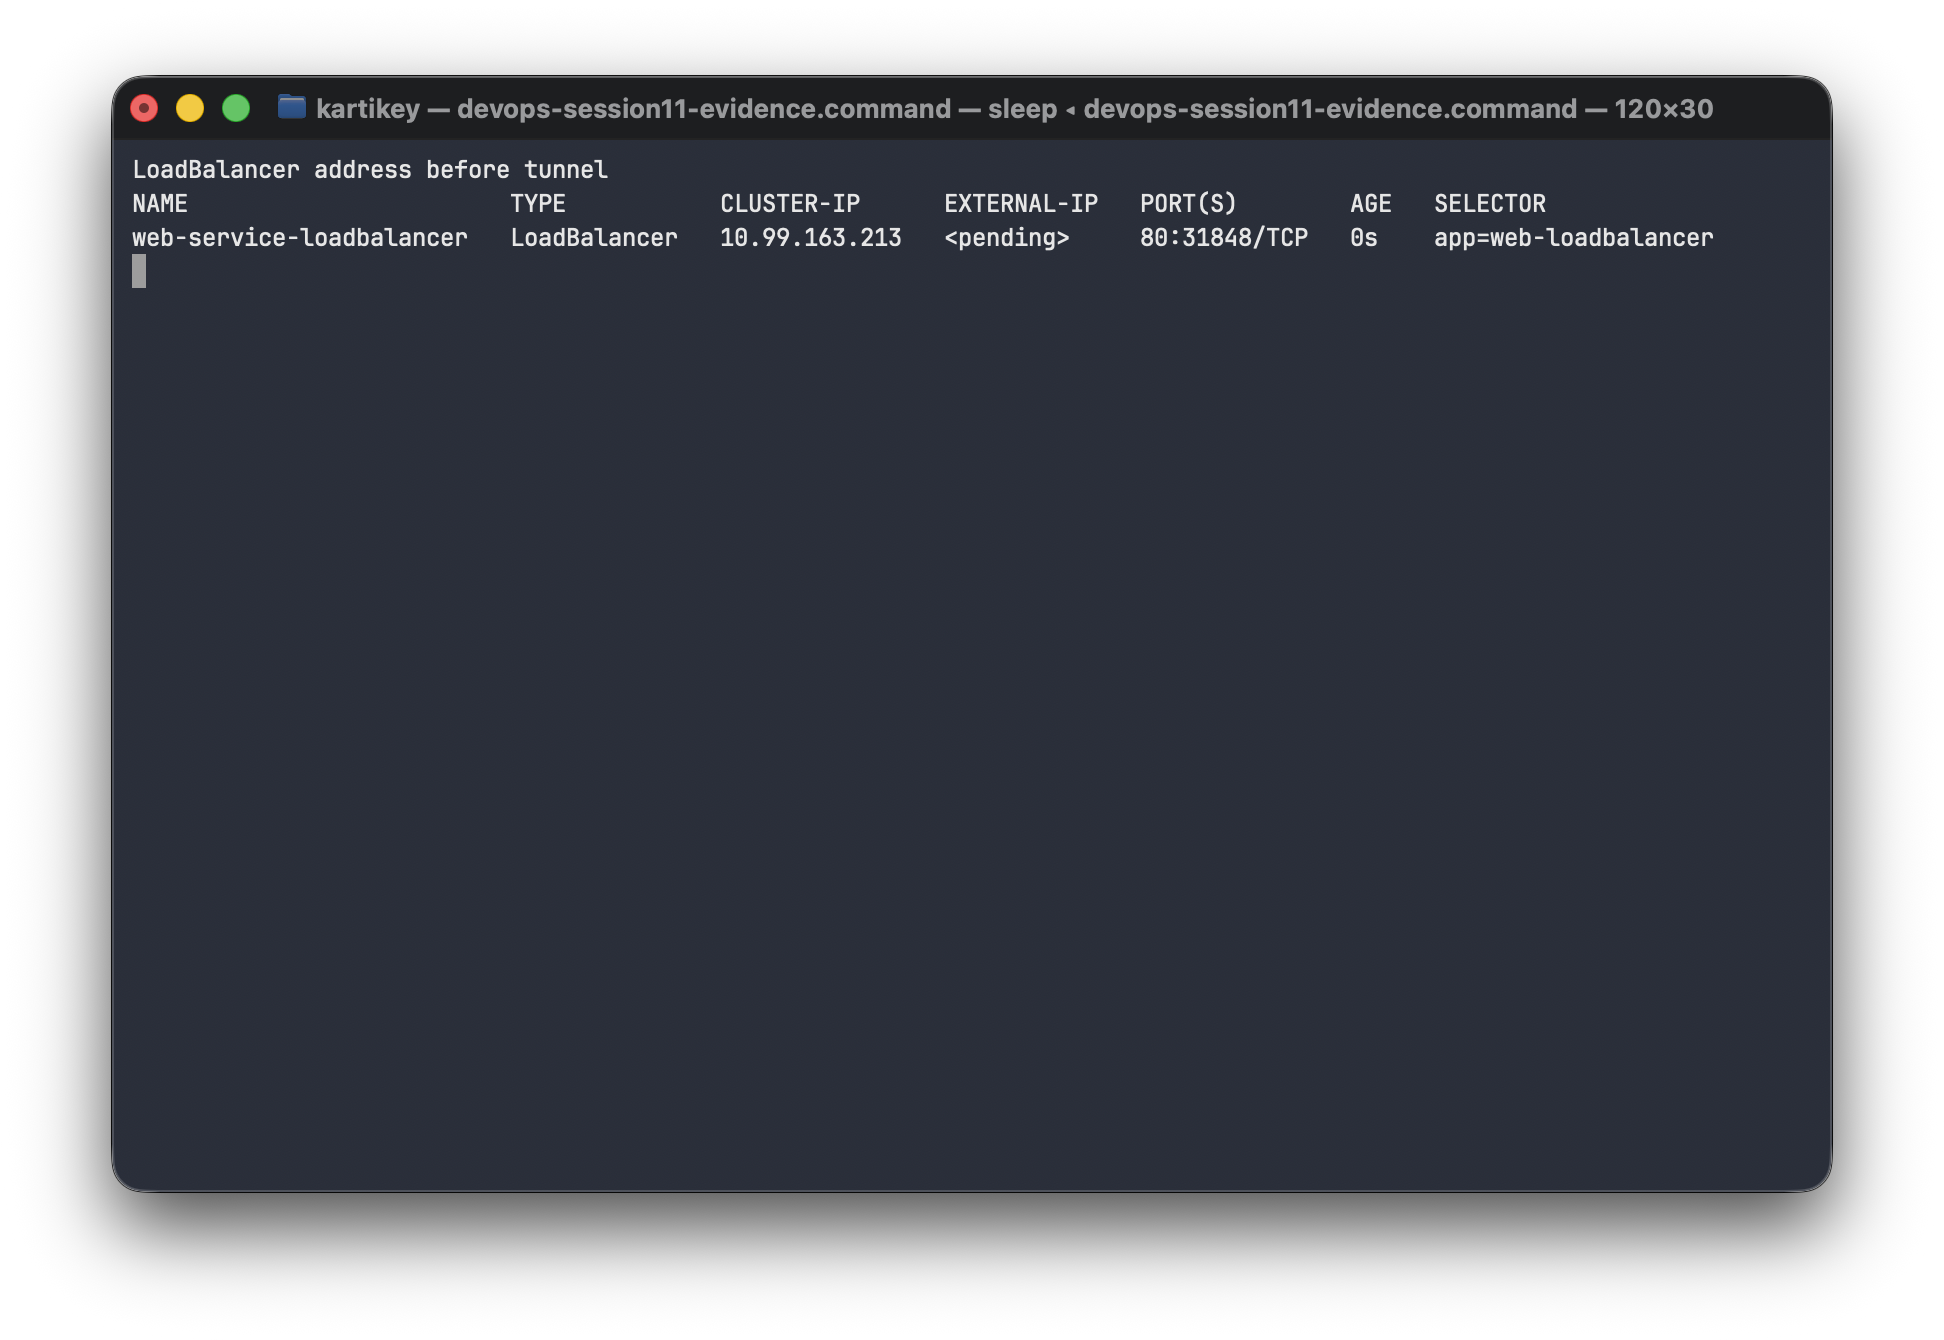
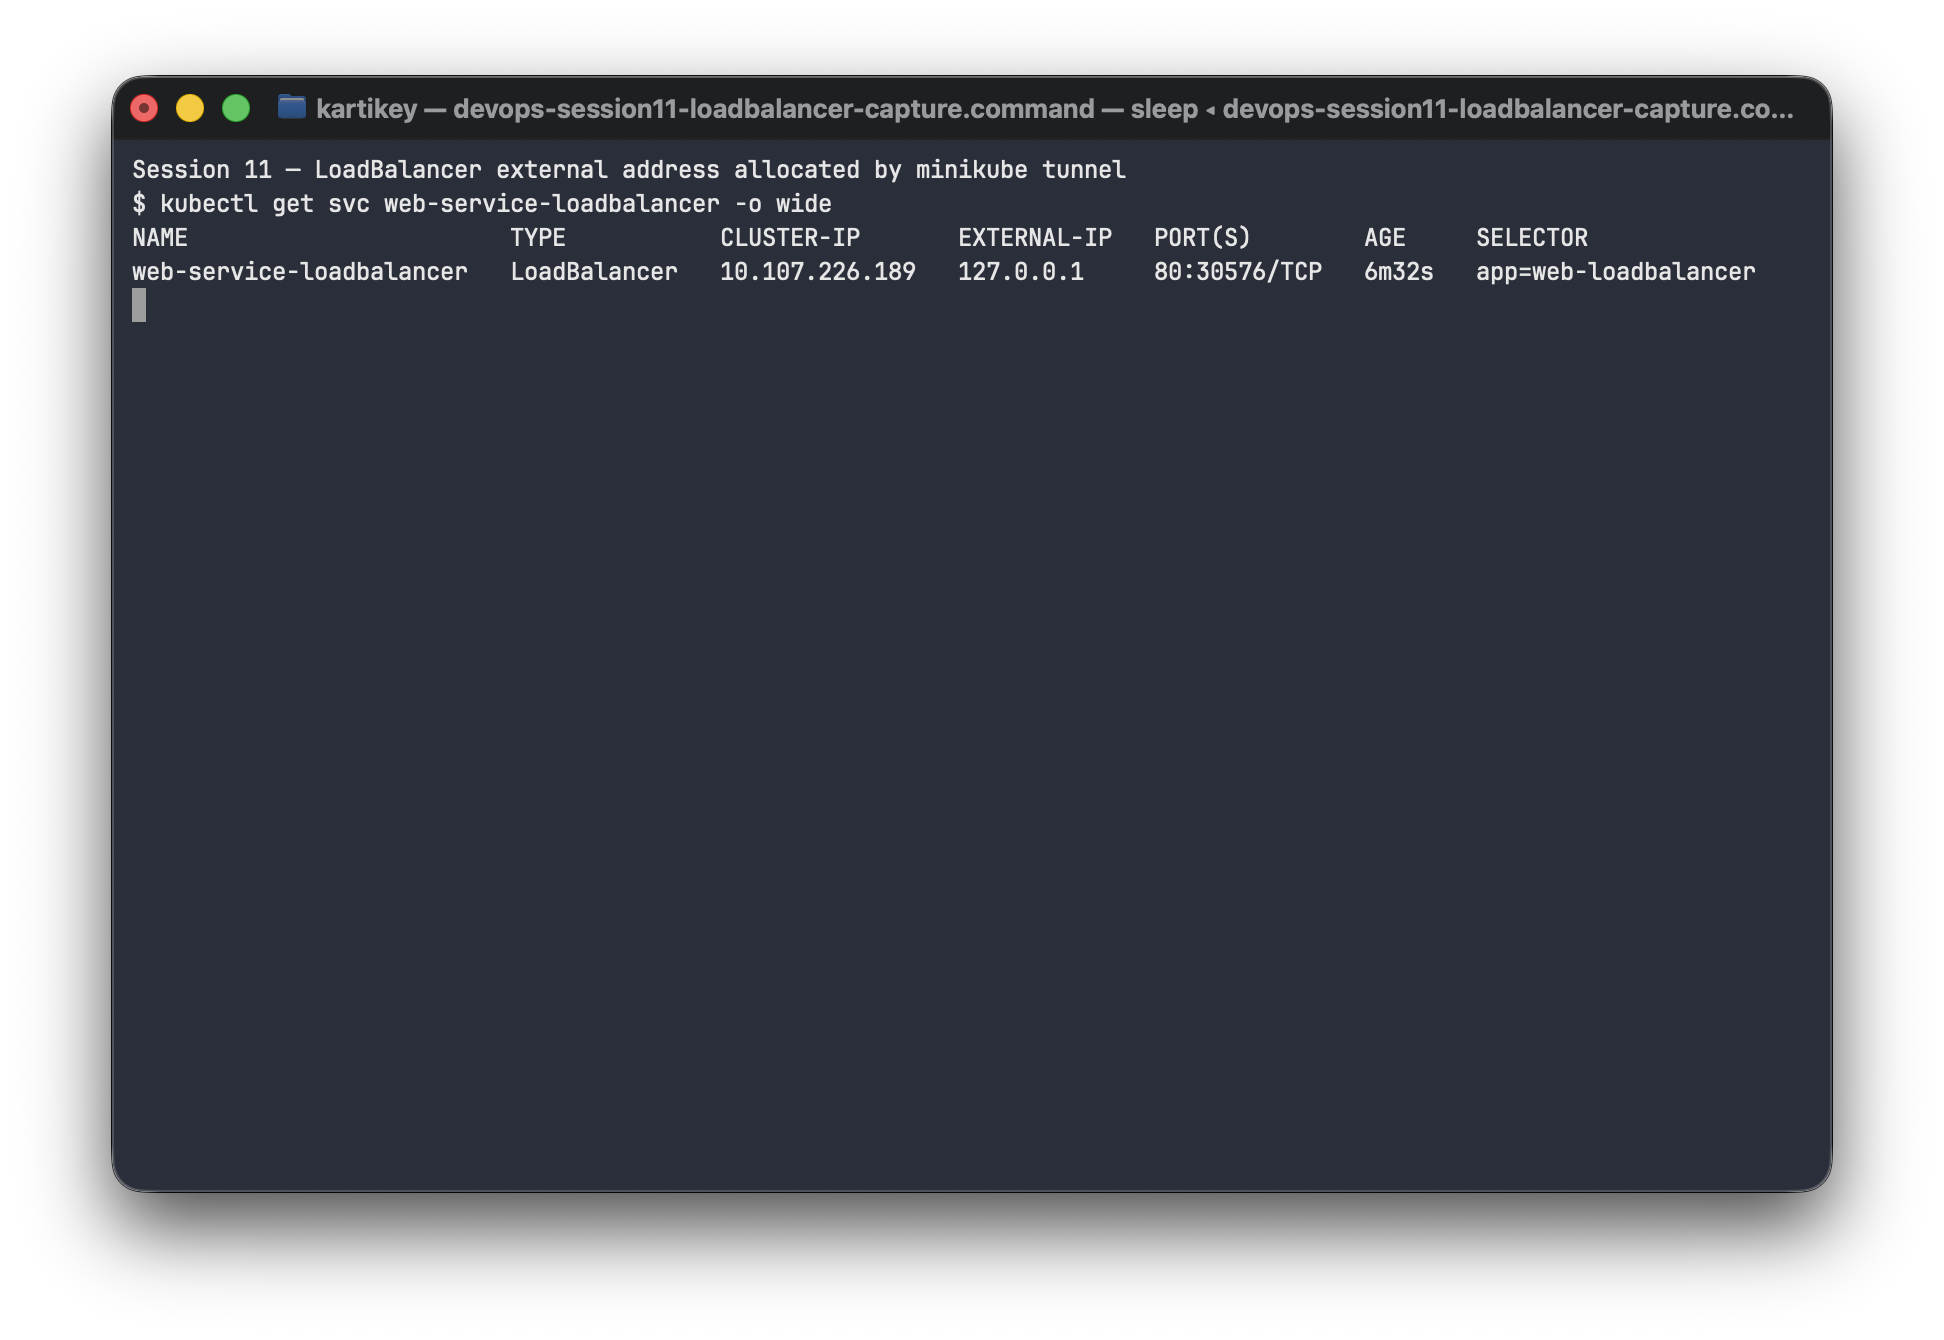
Complete tunnel and host mapping lab evidence

Changed region(s): [[0.0617, 0.1224, 0.8951, 0.2448], [0.1852, 0.0612, 0.9259, 0.0918]]

diff --git a/session-11-kubernetes-services/README.md b/session-11-kubernetes-services/README.md
@@ -109,7 +109,7 @@ flowchart TD
 
 ## Observed lab results
 
-The ClusterIP Service had three ready endpoints and both the short service name and full FQDN returned `<title>Welcome to nginx!</title>`. The client resolver showed `nameserver 10.96.0.10`, search suffixes for `default.svc.cluster.local`, `svc.cluster.local`, and `cluster.local`, and `options ndots:5`. NodePort mapped `80:30080/TCP`; `minikube service web-service-nodeport --url` returned a local `127.0.0.1` URL, and a request through that URL returned `HTTP/1.1 200 OK`. The LoadBalancer Service remained `<pending>` because starting `minikube tunnel` prompted for sudo credentials in this terminal.
+The ClusterIP Service had three ready endpoints and both the short service name and full FQDN returned `<title>Welcome to nginx!</title>`. The client resolver showed `nameserver 10.96.0.10`, search suffixes for `default.svc.cluster.local`, `svc.cluster.local`, and `cluster.local`, and `options ndots:5`. NodePort mapped `80:30080/TCP`; `minikube service web-service-nodeport --url` returned a local `127.0.0.1` URL, and a request through that URL returned `HTTP/1.1 200 OK`. After authenticating interactively and starting `minikube tunnel`, the LoadBalancer Service received `EXTERNAL-IP 127.0.0.1`; a request to `http://127.0.0.1/` returned the Nginx welcome title over port 80.
 
 The ExternalName Service displayed `CLUSTER-IP <none>` and `EXTERNAL-IP api.github.com`; CoreDNS returned the CNAME and an address during the lookup. An HTTPS request through that alias reached the external address but returned HTTP 400 because the request used the service-alias hostname; this proves name resolution and a TCP/TLS connection, not a successful API response. The headless Service returned three Pod A records, and direct access to `web-stateful-0.web-service-headless` returned the Nginx title. Deleting the stateless Deployment Pod resulted in a new generated suffix; deleting `web-stateful-0` recreated the same ordinal. A selectorless Service showed the supplied endpoint `192.0.2.10:3306`; that reserved documentation address proves endpoint association only and is not an active database.
 
@@ -124,4 +124,4 @@ These screenshots show the listed commands and results from this cluster:
 - [09.1-pod-identities.png](./screenshots/09.1-pod-identities.png), [09.2-identity-recreation.png](./screenshots/09.2-identity-recreation.png), [10.1-controller-matrix.png](./screenshots/10.1-controller-matrix.png), [11.1-service-decision-cost.png](./screenshots/11.1-service-decision-cost.png)
 - [12.1-docker-driver-direct-failure.png](./screenshots/12.1-docker-driver-direct-failure.png), [12.2-minikube-service-forward.png](./screenshots/12.2-minikube-service-forward.png)
 
-The LoadBalancer stayed pending without the sudo-backed Minikube tunnel; host DNS was checked with Host headers because `/etc/hosts` was not edited.
+The LoadBalancer screenshot records its tunnel-assigned `127.0.0.1` address and successful HTTP response. The temporary `/etc/hosts` mapping was also created and checked during Session 12; direct `.local` lookup through curl timed out on macOS, while the port-forward Host-header request succeeded.

diff --git a/session-12-ingress-configmaps-secrets/README.md b/session-12-ingress-configmaps-secrets/README.md
@@ -74,7 +74,7 @@ kubectl wait --namespace ingress-nginx --for=condition=Ready pod --selector=app.
 kubectl get pods,services -n ingress-nginx
 ```
 
-The workstation mapping exercise is `MINIKUBE_IP=$(minikube ip); echo "$MINIKUBE_IP yatri.local" | sudo tee -a /etc/hosts`, then verify with `grep yatri.local /etc/hosts`. Remove the entry after the lab because the Minikube address can change. For local routing checks without a persistent hosts-file edit, pass `-H 'Host: yatri.local'` or use curl `--resolve`.
+The temporary workstation mapping was added as `192.168.49.2 yatri.local portal.campus.local api.campus.local` in `/etc/hosts`. `dscacheutil` returned the expected Minikube IP, but `curl http://yatri.local/` timed out during name resolution on this macOS host. A Host-header request through `kubectl port-forward` returned the frontend page. The temporary mapping was removed after the test because the Minikube IP can change.
 
 ## End-to-end demo
 
@@ -116,4 +116,4 @@ These screenshots show the required terminal evidence from this cluster:
 - [09-local-dns-resolution.png](./screenshots/09-local-dns-resolution.png), [10-path-routing.png](./screenshots/10-path-routing.png), [11-virtual-host-routing.png](./screenshots/11-virtual-host-routing.png), [12-hybrid-ingress-routing.png](./screenshots/12-hybrid-ingress-routing.png)
 - [13-ingress-tls.png](./screenshots/13-ingress-tls.png), [14-full-demo-and-cleanup.png](./screenshots/14-full-demo-and-cleanup.png)
 
-The `/etc/hosts` edit was not performed; local routing was verified with Host headers through port-forwarding.
+The `/etc/hosts` mapping and DNS lookup were verified, then the temporary entry was removed. Direct curl resolution timed out; Host-header requests through local port-forwarding succeeded for the frontend and backend.
